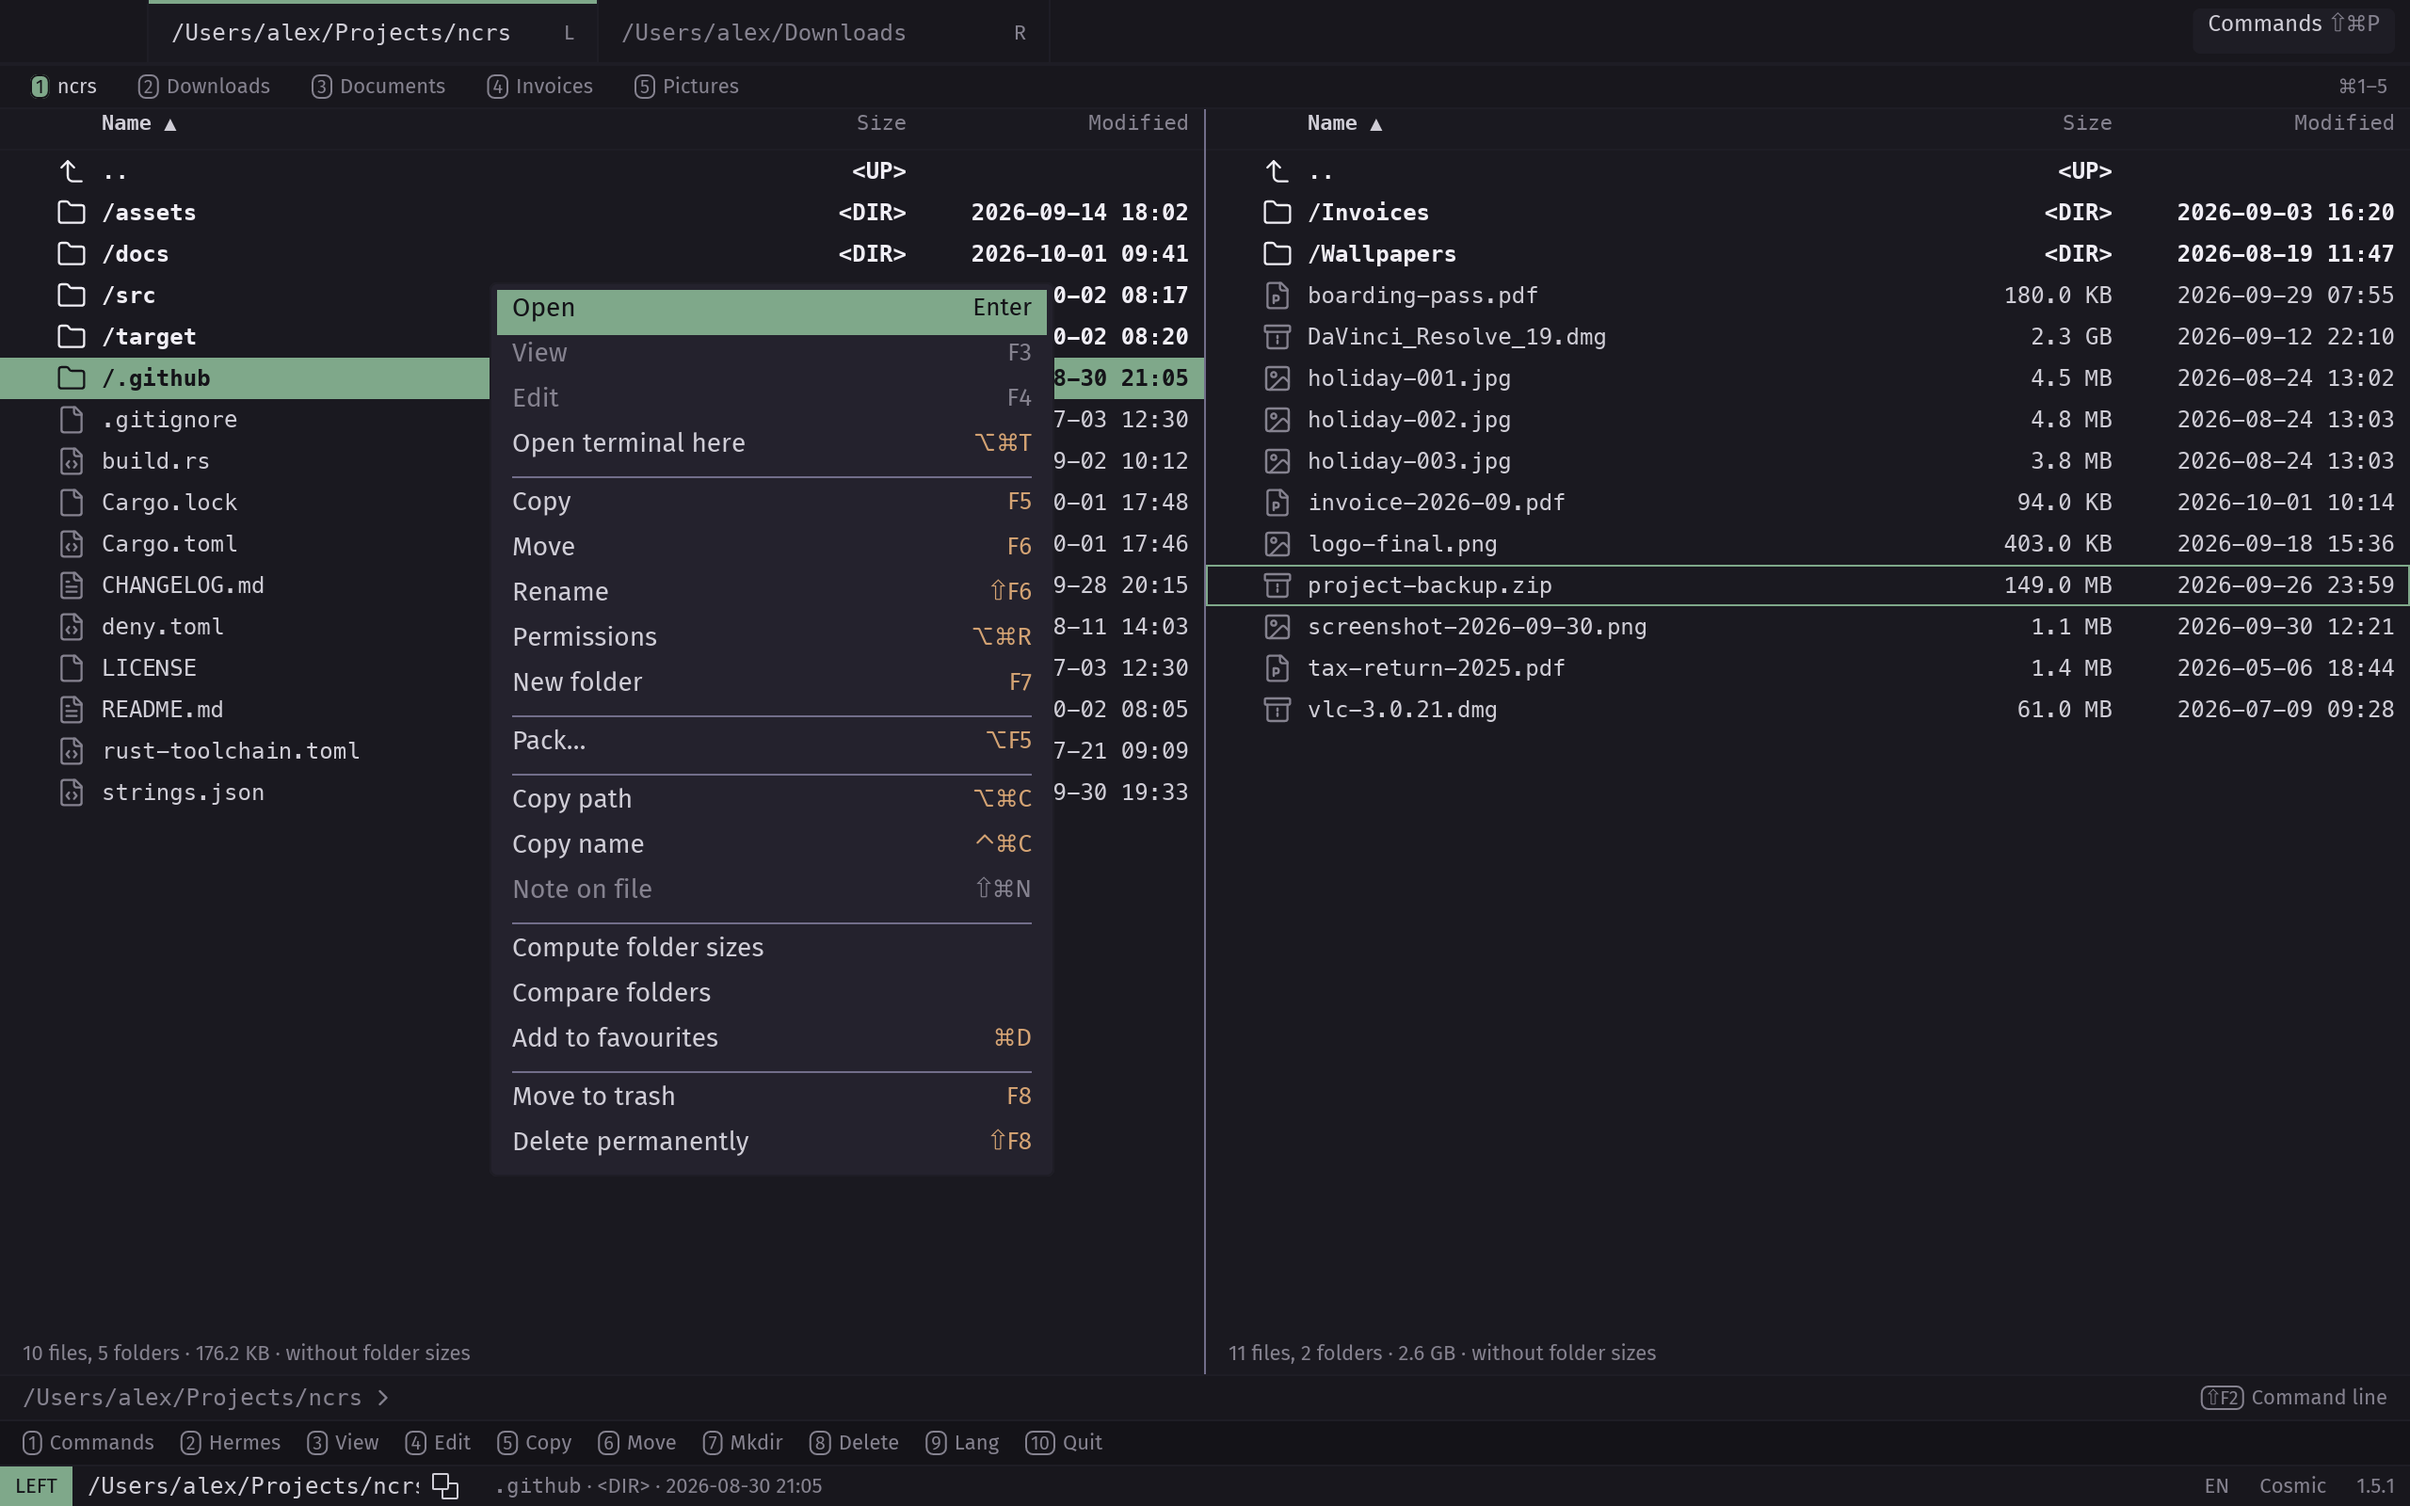
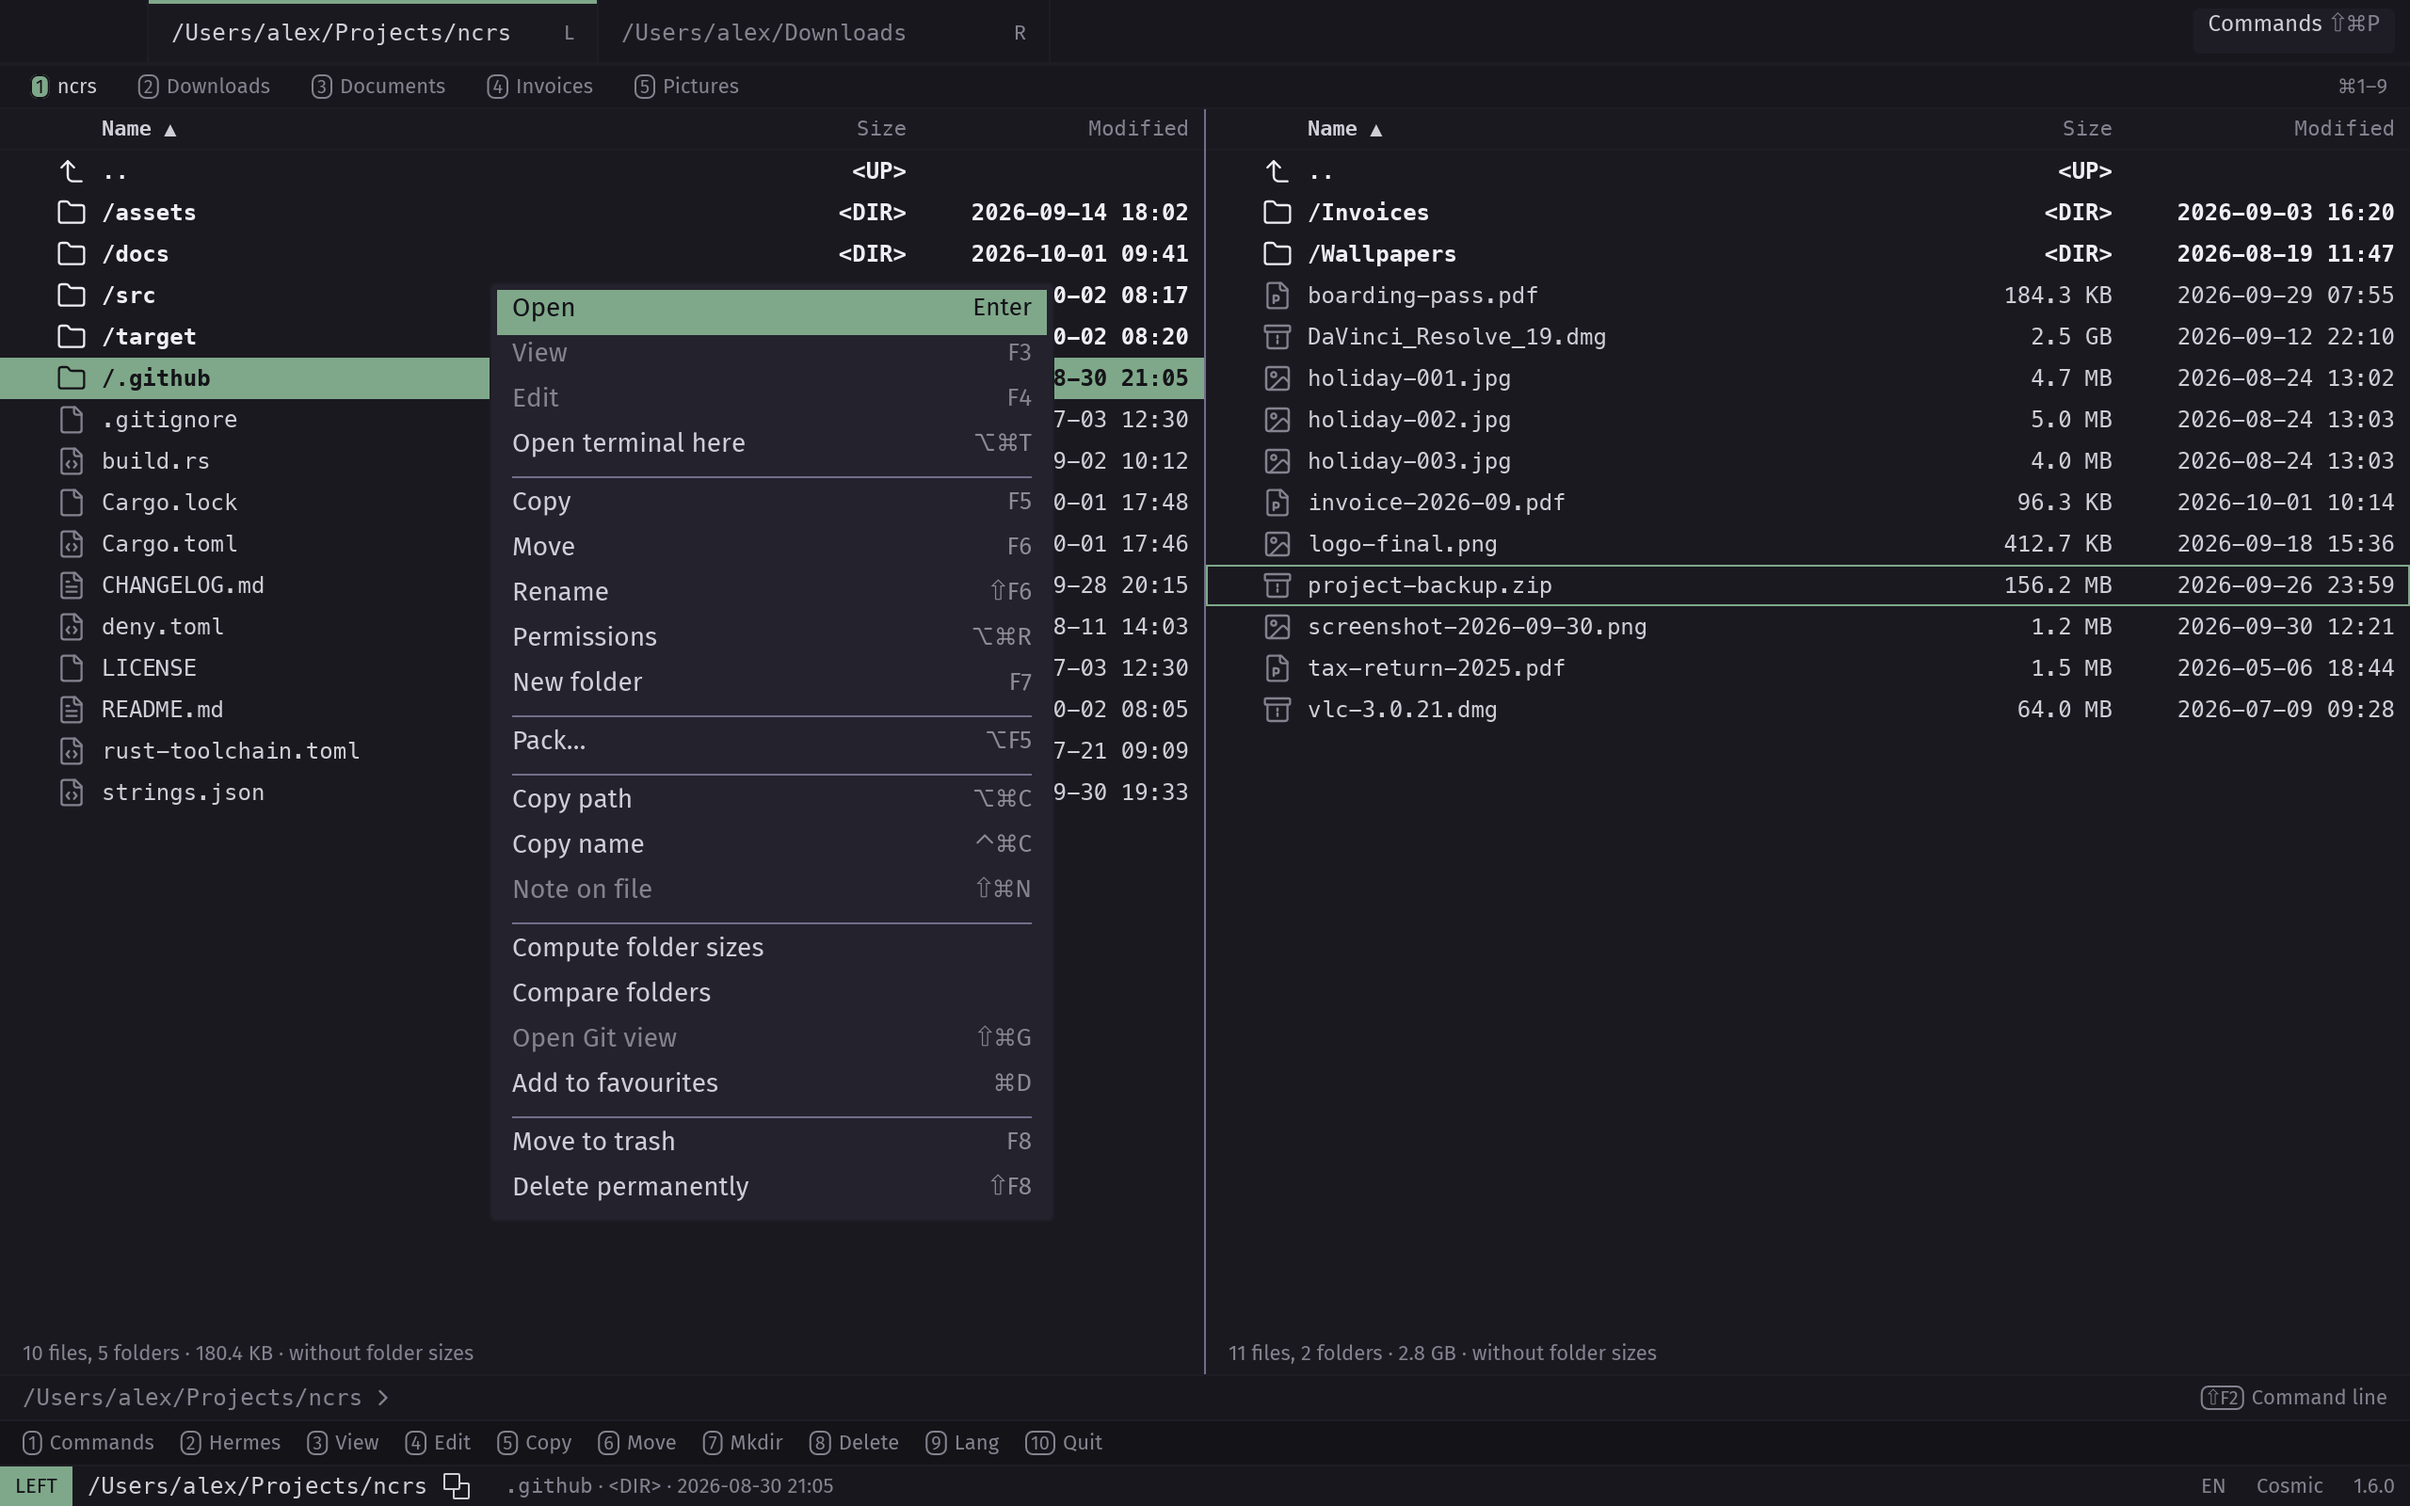
Prepare release 1.6.0

diff --git a/README.md b/README.md
@@ -241,7 +241,19 @@ The same window in German, switched with F9.
   panel and, for a file in a place Hermes indexes, follows it when it is moved. A note is written
   while you type.
   On a wide window the editor sits left and the rendered note right; on a narrow one "View" and
-  "Edit" switch
+  "Edit" switch. Notes can be encrypted (AES-256-GCM, the key in the system credential store, a
+  recovery key for another computer); `Cmd`+`L` (`Ctrl`+`L`) or a click on the lock locks and
+  unlocks, and Touch ID on macOS or Windows Hello on Windows confirms before the key is read.
+  `Cmd`+`F` searches, `F7` makes a folder, `F4` edits, `←`/`→` fold folders. A sync folder is set
+  under Settings › Notes
+- Git: inside a repository the panel shows a status column per file (M, A, ?, D), a ⎇ mark on
+  folders that are repositories, and the branch, ahead/behind and changed count in the status
+  line. `Shift`+`Cmd`+`G` (`Shift`+`Ctrl`+`G` on Linux and Windows) opens a Git tab for the
+  repository of the active panel, as many as you like: history graph, branches, tags and
+  worktrees, commit details with +/− per file, side-by-side and unified diff, and a filter by
+  message, author or SHA. Read-only
+- Open in ncrs from other apps: folders and files handed over by the Finder ("Open With"), the
+  Explorer or the Linux file manager service open in the active panel, with the cursor on the file
 - A favourites bar with the favourite folders that fit, the rest behind », `Cmd`+`1` to `9` (`Ctrl` on Linux and Windows)
 - `Enter` and a double click open a file with the system's own program, like the Finder; a file
   that could run asks first. On macOS an app starts directly, and "Show package contents" enters it
@@ -273,6 +285,9 @@ The defaults. Most of them can be changed in the keyboard shortcuts dialog (`Cmd
 | `Insert` / `Space` | Tag / untag the row, move down one      |
 | `Shift`+`Up`/`Down`| Tag / untag the row, move up / down     |
 | `*`                | Tag every row (except `..`)             |
+| `+` / `-`          | Tag / untag the rows that match a pattern |
+| `Cmd`+`G` / `Ctrl`+`G` | Go to path: the active panel opens the folder, or puts the cursor on the file |
+| `Shift`+`Cmd`+`G` / `Shift`+`Ctrl`+`G` | Open a Git tab for the repository of the active panel |
 | `Ctrl`+`*`         | Clear all tags                          |
 | `Cmd`+`Z` / `Ctrl`+`Z` | Put back what the last `F8` moved to the trash |
 | `Cmd`+`C` / `Ctrl`+`C` | Copy the tagged files (else the cursor row) to the clipboard as files, for the Finder, Explorer or another app |
@@ -834,6 +849,13 @@ there, and the chat reports the run with its undo.
 
 ![Settings › Hermes](docs/screenshots/filing.png)
 
+**Chats.** Hermes keeps its chats on disk and lists them by Today, Yesterday and
+Earlier; an earlier chat opens and continues where it stopped, marked chats can be
+deleted, and Settings › Hermes can remove chats after 30 or 90 days. While Hermes
+prepares folder suggestions, the status bar names the folder and counts down the
+files still left. The window stays responsive while the built-in model works: the
+model waits while you type or move the mouse.
+
 **On/off.** One switch for all of Hermes: "Hermes" (On | Off) at the top of
 Settings › AI. While it is off, a dim "Hermes off" chip in the title bar opens
 that page. A file without the key has it on. Off, no read folder is watched and no
@@ -1058,6 +1080,10 @@ ncrs shows your master key once, the same key ncrs later asks for as the
 recovery key. You need it if the credential store loses the
 key, for example on a new machine or after a reinstall. Without it the index
 cannot be read again.
+
+**Encrypted when you choose it:** notes you lock (AES-256-GCM, `.md.enc` files in
+the notes folder). Their key is kept in the same credential store, with its own
+recovery key.
 
 **Not encrypted:**
 

diff --git a/CHANGELOG.md b/CHANGELOG.md
@@ -6,6 +6,36 @@ All notable changes to this project are documented here. The format follows
 
 ## [Unreleased]
 
+## [1.6.0] — 2026-11-21
+
+### Added
+
+- Git status in the panels: a status column per file (M, A, ?, D) inside a
+  repository, a ⎇ mark on folders that are repositories, and the branch,
+  ahead/behind and changed count in the status line.
+- A Git tab (`Shift`+`Cmd`+`G`, `Shift`+`Ctrl`+`G` on Linux and Windows), one
+  per repository and as many as you like: history graph, branches, tags and
+  worktrees, commit details with +/− per file, side-by-side and unified diff,
+  and a filter by message, author or SHA. The arrow keys repeat while held;
+  `←`/`→` move between the areas.
+- Encrypted notes: AES-256-GCM, the key in the system credential store and a
+  recovery key for another computer. `Cmd`+`L` or a click on the lock locks
+  and unlocks; Touch ID on macOS and Windows Hello on Windows confirm before
+  the key is read. A sync folder for notes under Settings › Notes.
+- Notes by keyboard: `Cmd`+`F` searches, `F7` makes a folder, `F4` edits,
+  `←`/`→` fold folders.
+- Hermes keeps its chats: listed by Today, Yesterday and Earlier, to open,
+  continue or delete; Settings › Hermes can remove them after 30 or 90 days.
+- Open in ncrs from other apps: folders and files handed over by the system
+  open in the active panel, with the cursor on the file.
+- Go to path (`Cmd`+`G`, `Ctrl`+`G` on Linux and Windows): paste a path, the
+  active panel opens the folder or puts the cursor on the file.
+- Tag and untag by pattern with `+` and `-`.
+- The favourites bar takes more than five favourites, the rest behind ».
+- Folder sizes are measured in the background, with the running total in the
+  row and a progress bar in the status line.
+- The status bar shows what Hermes is preparing, with the files still left.
+
 ### Security
 
 - SFTP: revoked keys and host patterns in `known_hosts` are honoured in all
@@ -72,6 +102,10 @@ All notable changes to this project are documented here. The format follows
 
 ### Changed
 
+- The window stays responsive while the built-in model works: the model waits
+  while you type or move the mouse.
+- Notes, the Git tab and the Filing tab draw their trees with one compact row.
+- `F10` closes the window at once and frees the model before ncrs exits.
 - An AI server on another computer is now agreed to for three kinds of data
   one by one: incoming documents, filed documents, and folders with file names.
   Of a kind you have not agreed to, nothing is sent. A settings file with the
